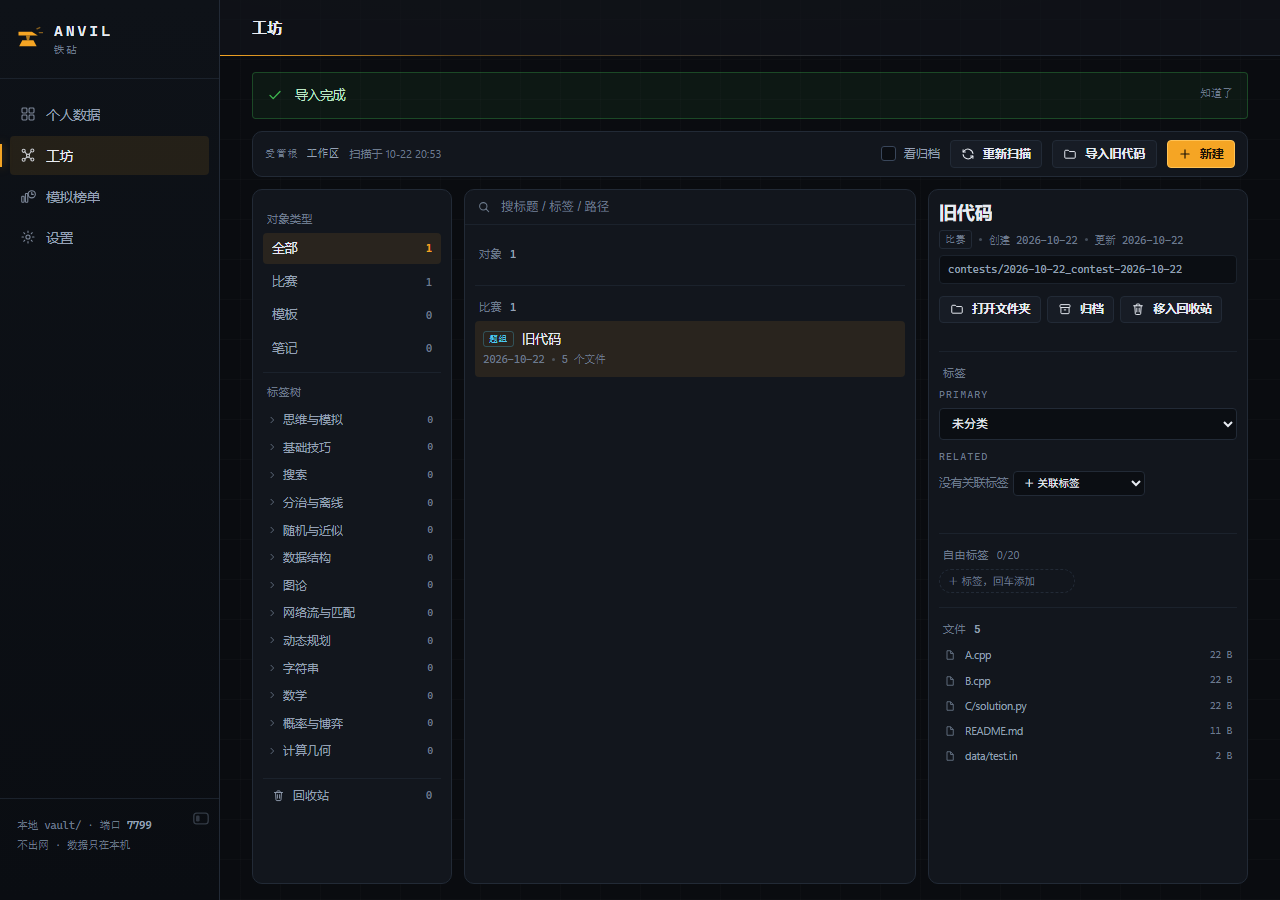
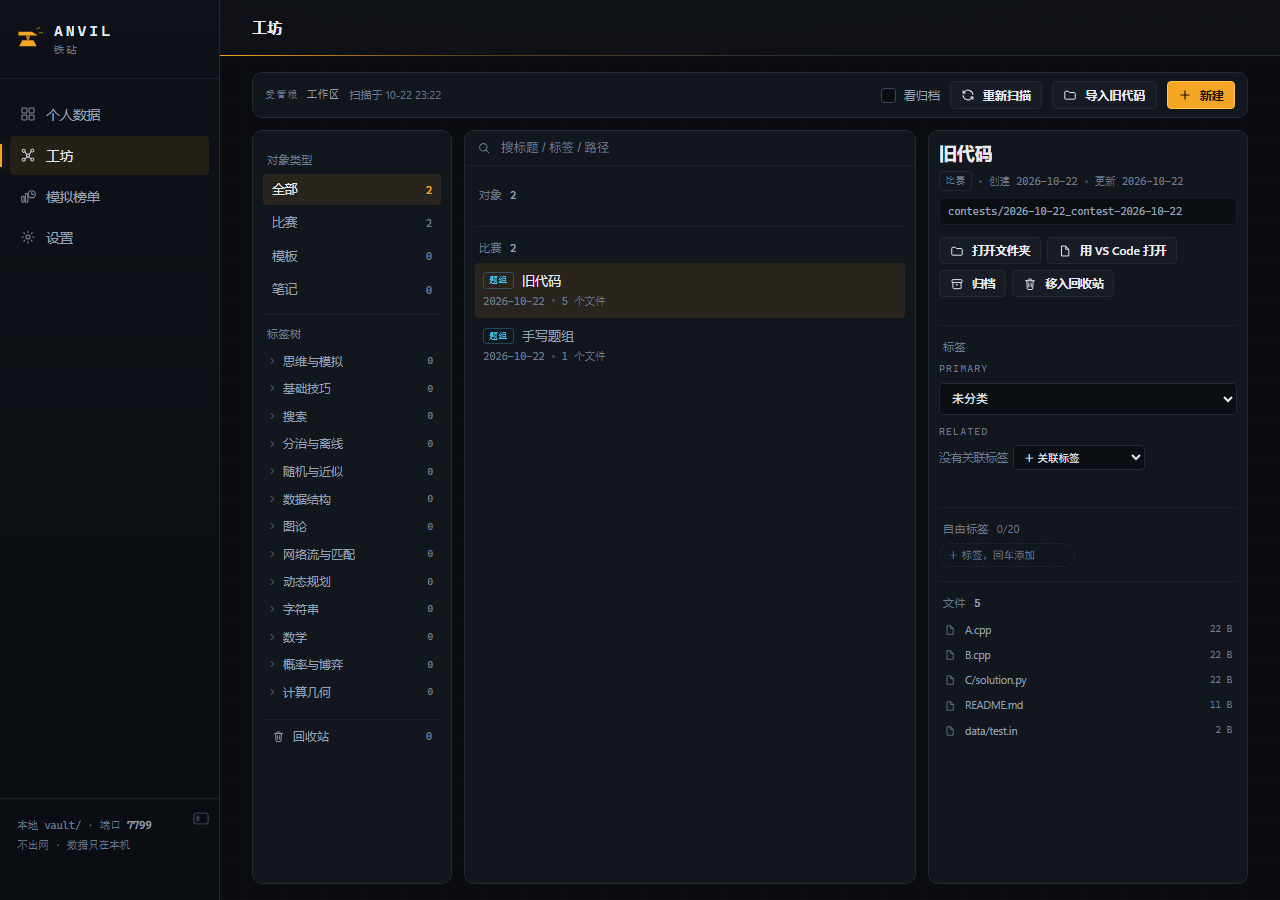
工坊：题组详情支持 VS Code 打开
- 题组（contest）详情新增「用 VS Code 打开」，与资源管理器并列
- 旧题目对象保留同样双按钮；模板 / 笔记仍只有打开文件夹
- 更新题组语义报告与截图；530/530

diff --git a/packages/web/test/work-derive.test.ts b/packages/web/test/work-derive.test.ts
@@ -80,12 +80,14 @@ describe('工坊派生（契约 §7.3 筛选口径）', () => {
     expect(allLabels([obj(), obj({ labels: ['赛时', '复盘'] })])).toEqual(expect.arrayContaining(['赛时', '复盘']));
   });
 
-  it('problem 详情两个文件夹入口；其它 kind 只有 auto', () => {
-    expect(folderActionsOf('problem')).toEqual([
+  it('题组 / 旧题目对象两个文件夹入口；模板 / 笔记只有 auto', () => {
+    const two = [
       { app: 'explorer', label: '打开文件夹' },
       { app: 'vscode', label: '用 VS Code 打开' },
-    ]);
-    for (const kind of ['contest', 'template', 'note'] as const) {
+    ];
+    expect(folderActionsOf('contest')).toEqual(two);
+    expect(folderActionsOf('problem')).toEqual(two);
+    for (const kind of ['template', 'note'] as const) {
       expect(folderActionsOf(kind)).toEqual([{ app: 'auto', label: '打开文件夹' }]);
     }
   });

diff --git a/packages/web/src/components/work/derive.ts b/packages/web/src/components/work/derive.ts
@@ -163,9 +163,9 @@ export interface WorkFolderAction {
   label: string;
 }
 
-/** problem 详情必须同时给出资源管理器与 VS Code；其它对象保持 5a 的单一 auto 入口 */
+/** 题组 / 旧题目对象都给出资源管理器与 VS Code；模板 / 笔记保持 5a 的单一 auto 入口 */
 export function folderActionsOf(kind: WorkKind): WorkFolderAction[] {
-  if (kind === 'problem') {
+  if (kind === 'problem' || kind === 'contest') {
     return [
       { app: 'explorer', label: '打开文件夹' },
       { app: 'vscode', label: '用 VS Code 打开' },

diff --git a/docs/reports/实现说明-工坊-题组语义.md b/docs/reports/实现说明-工坊-题组语义.md
@@ -35,6 +35,7 @@
 | 文件原样保留相对路径，不生成题目对象 | 完成 | 导入后一个 contest 对象；详情文件列表含 `A.cpp` / `B.cpp` / `C/solution.py` / `README.md` / `data/test.in`；截图 `work-group-detail.png` |
 | 列表只按「比赛」分区，不再出现新导入的题目行 | 完成 | `WORK_SECTION.groups = 比赛`；新数据无 problem 对象；左侧「题目」筛选在无旧数据时隐藏 |
 | 手动工作流：新建题组 → 放 cpp → 重新扫描 | 完成 | 真机新建「手写题组」→ 写入 `A.cpp` → 重新扫描；徽章与文件列表出现；截图 `work-group-list-manual.png` / `work-group-manual-detail.png` |
+| 题组详情用 VS Code 打开 | 完成 | `folderActionsOf('contest')` 返回 Explorer + VS Code；`WorkDetail` 复用；旧题目对象保留双按钮；截图 `work-group-detail.png` |
 | 旧题目对象保留可查看 | 完成 | 列表「旧题目对象」区；左侧「题目」筛选只在旧对象存在时显示 |
 | 对象模型 / schema 不变 | 完成 | 无新 kind、无 SQLite 表、`.anvil.json schema=1`；`WorkObjectDto` 只增加派生字段 `sourceCount` |
 | `npm run verify` | 完成 | typecheck / 530 测试 / build 全绿 |
@@ -62,7 +63,13 @@
 - 旧的「比赛 + 子 problem 对象」数据仍按折叠组显示（组头带「题组」徽章、`N 题`），只用于旧数据兼容。
 - 左侧「题目」筛选只在 `counts.problem > 0` 时出现，避免新用户看到空的旧分类。
 
-### 3.3 导入
+### 3.3 题组详情动作
+
+- 题组（`contest`）详情动作：**打开文件夹**（Explorer）+ **用 VS Code 打开**（`Code.exe --new-window <abs>`；本机版本目录布局自动走 `cli.js + ELECTRON_RUN_AS_NODE`，失败 502 不回退）。
+- 旧 `problem` 对象保留同样两个按钮；模板 / 笔记仍只有「打开文件夹」。
+- 文件列表点击文件仍走 `app:auto`，不改变 5a-2 语义。
+
+### 3.4 导入
 
 - 扫描一个绝对目录：
   - `totals.candidates = 1`（目录有非忽略普通文件时）；文件数 / 字节 / 忽略统计不变。
@@ -114,7 +121,7 @@ npm run verify
 | `work-group-import-preview.png` | 导入预览：整目录 = 一个题组「旧代码」，5 个文件、主源码 3 个，无子题树 |
 | `work-group-import-result.png` | 导入结果：1 个成功对象，「新建的题组」1 行，manifest 路径 |
 | `work-group-list.png` | 导入后列表：比赛 1、题组徽章、5 个文件；左侧无「题目」筛选；无题目行 |
-| `work-group-detail.png` | 题组详情：A.cpp / B.cpp / C/solution.py / README.md / data/test.in；只有题组级动作 |
+| `work-group-detail.png` | 题组详情：A.cpp / B.cpp / C/solution.py / README.md / data/test.in；「打开文件夹」+「用 VS Code 打开」 |
 | `work-group-list-mixed.png` | 比赛 2：导入的「旧代码」有题组徽章，新建的「手写题组」0 文件无徽章（有挂 / 没挂） |
 | `work-group-manual-detail.png` | 手动在题组文件夹写入 A.cpp 并重新扫描后的详情：文件 1 |
 | `work-group-list-manual.png` | 重新扫描后两场比赛都显示题组徽章；列表仍不出现题目行 |
@@ -134,7 +141,7 @@ npm run verify
 3. **旧题目对象**不迁移、不自动转换；仍显示在「旧题目对象」区，左侧「题目」筛选只在有旧数据时出现。新导入 / 新建不会生成它们。
 4. **5a-2 的多候选分类函数**（`classifyImportTree`）仍保留在 shared 作为遗留工具和测试对象，但当前导入路径不再调用；如确认不需要，可在后续清理。
 5. **题组徽章依赖主源码扩展名**：只有附件 / 文档、没有 `.cpp` 等主源码的比赛不显示题组徽章；`sourceCount` 是派生字段，不写 meta。
-6. **新建「题组」和「比赛」内部都是 `contest`**：详情里的 kind 文案仍可能显示「比赛」；这是不新增对象类型的取舍。两者区别是表单意图（题组无榜单路径，比赛可选）。
+6. **新建「题组」和「比赛」内部都是 `contest`**：详情里的 kind 文案仍可能显示「比赛」；这是不新增对象类型的取舍。两者区别是表单意图（题组无榜单路径，比赛可选）。题组详情的 VS Code 按钮按 `contest` kind 生效，不依赖标题或路径。
 7. **导入仍是单目录**：一次扫描 / 提交只处理一个源目录；不支持一次选多个目录，也不支持旧的多候选拆分。
 8. **部分成功状态**：新模型下一个目录只有一个原子单元，单个导入不会出现「多个单元里部分成功」；UI 仍保留旧多单元结果的渲染兼容。
 9. **旧版的 5a-2 报告 / 截图**保留为历史；本文取代其导入口径。`docs/contracts/24` 未改动（按用户要求），阅读契约时以本文为准。
@@ -148,7 +155,7 @@ npm run verify
 - `packages/server/src/work/store.ts`：`collectFiles` 统计主源码数，DTO 带 `sourceCount`。
 - `packages/server/src/work/import.ts`：scan 改用单目录题组候选；manifest / staging / 恢复 / 去重继续复用。
 - `packages/web/src/components/work/WorkCreate.tsx`：题组 / 比赛 / 模板 / 笔记；题组与比赛都建 contest。
-- `packages/web/src/components/work/WorkList.tsx` / `derive.ts`：比赛分区、题组徽章（`sourceCount > 0`）、无子题比赛按行显示、旧题目对象区。
+- `packages/web/src/components/work/WorkList.tsx` / `derive.ts`：比赛分区、题组徽章（`sourceCount > 0`）、无子题比赛按行显示、旧题目对象区；`folderActionsOf('contest')` 增加 VS Code 入口。
 - `packages/web/src/components/work/WorkImport.tsx`：单题组预览、题组文件、无子题提示、结果文案。
 - `packages/web/src/components/work/Workbench.tsx`：无旧题目时隐藏「题目」筛选。
 - 对应测试与 `design/_shots/work-group-*.png`。
